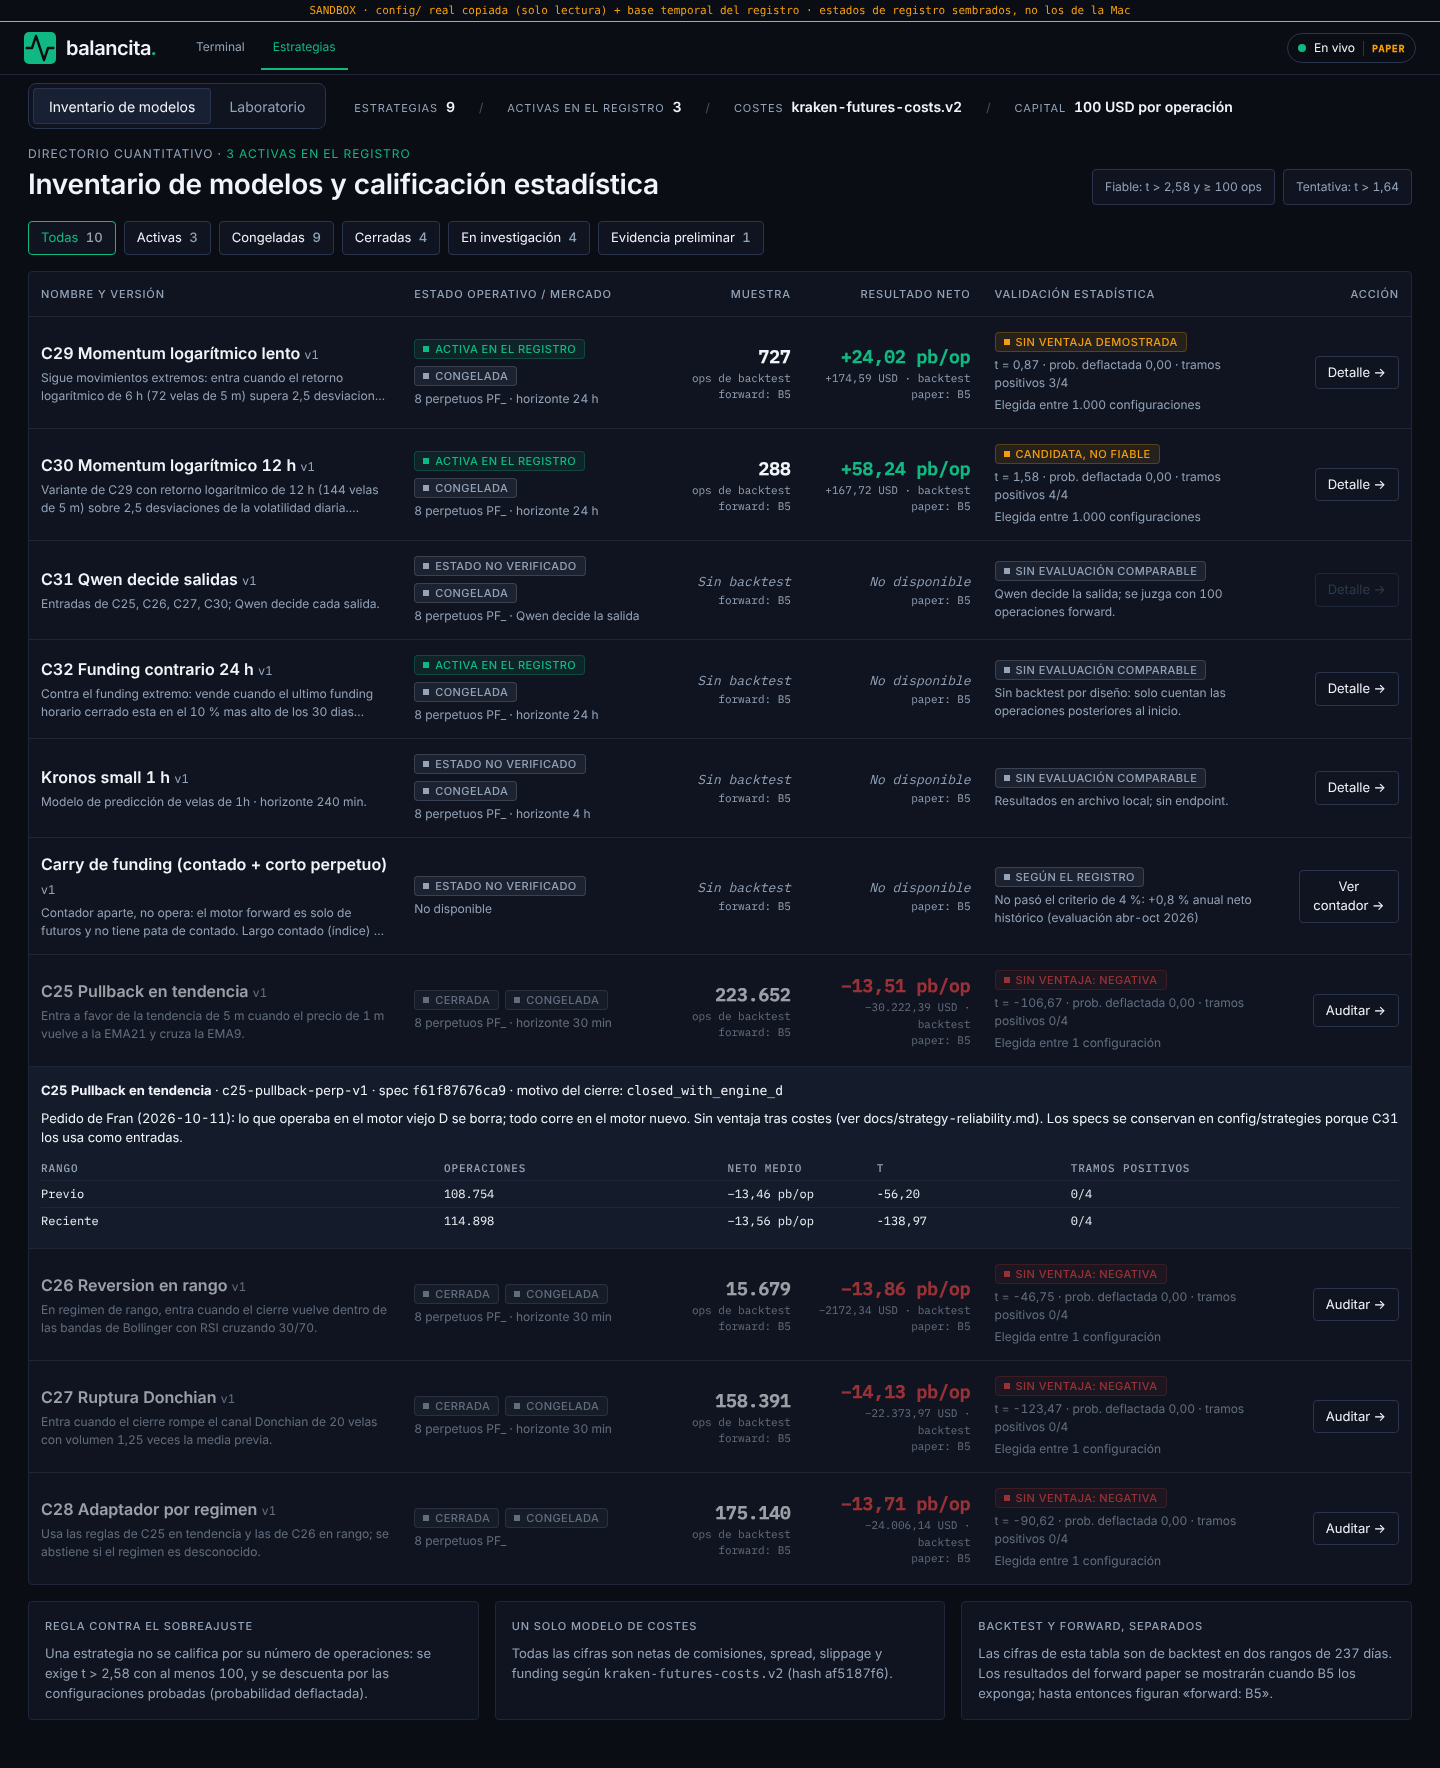
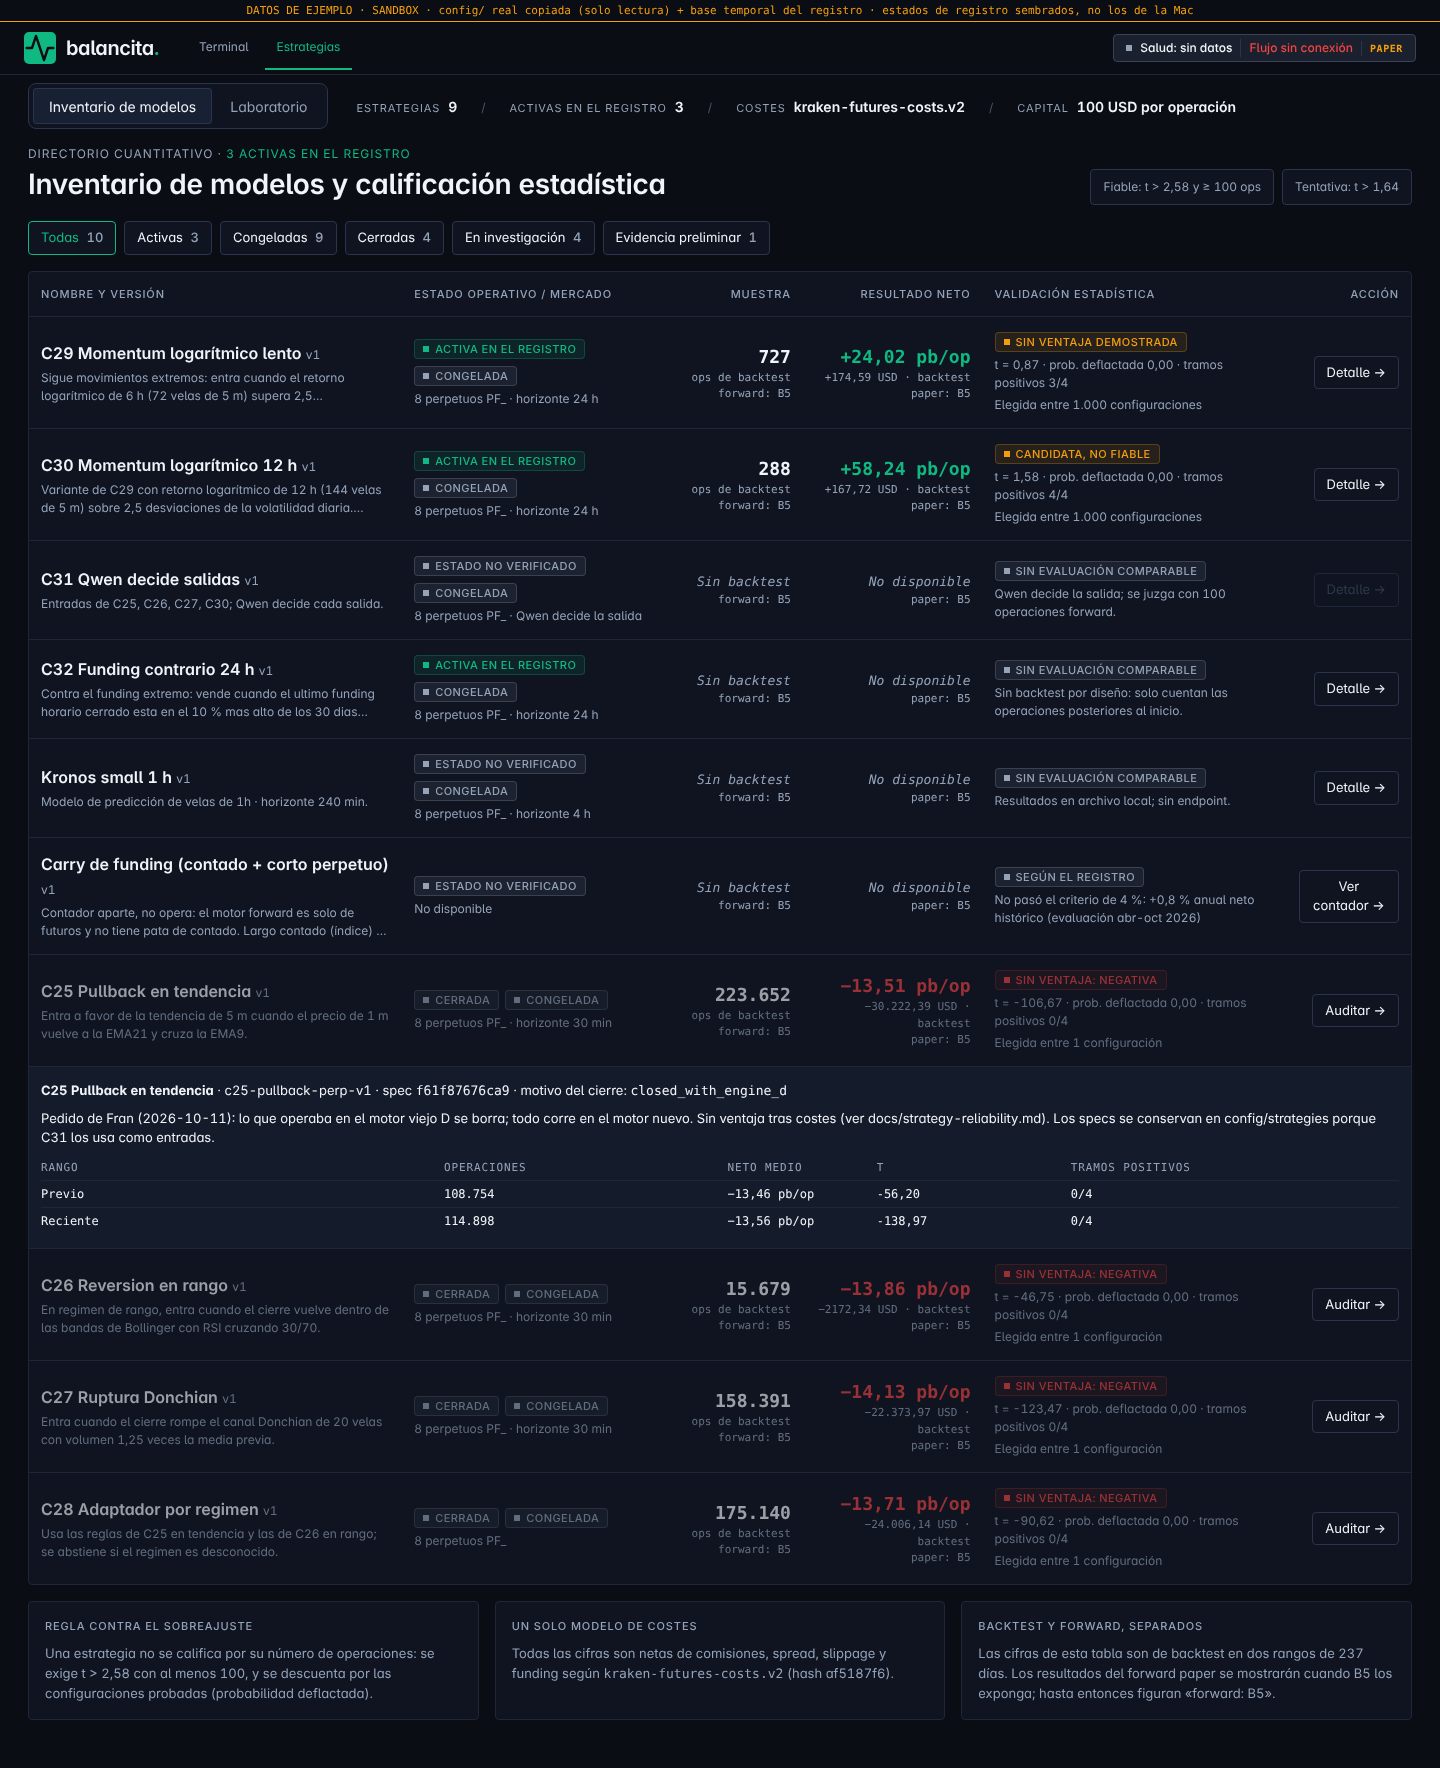
Inventario: pruebas de navegación y de integración tras rebasar sobre main, capturas con rótulo DATOS DE EJEMPLO

diff --git a/e2e/estrategias-inventario.pw.ts b/e2e/estrategias-inventario.pw.ts
@@ -22,7 +22,7 @@ const REGISTRY_PORT = 8790
 const SHOTS =
   process.env.INVENTORY_SHOTS_DIR ?? 'playwright-artifacts/inventario'
 const SANDBOX_NOTE =
-  'SANDBOX · config/ real copiada (solo lectura) + base temporal del registro · estados de registro sembrados, no los de la Mac'
+  'DATOS DE EJEMPLO · SANDBOX · config/ real copiada (solo lectura) + base temporal del registro · estados de registro sembrados, no los de la Mac'
 
 let registry: ChildProcess | null = null
 let configCopy = ''
@@ -178,6 +178,13 @@ test('Estrategias opens on the inventory and every interaction answers', async (
       .locator('[data-id="kronos-small-1h-h4-v1"]')
       .getByTestId('operational-badge'),
   ).toHaveText('Estado no verificado')
+  // C31 is registered only in qwen-exit.json: a config does not prove it runs.
+  const c31 = page.locator('[data-id^="c31"]')
+  await expect(c31.getByTestId('operational-badge')).toHaveText(
+    'Estado no verificado',
+  )
+  await expect(page.getByText('Activa en paper')).toHaveCount(0)
+  await expect(page.getByText('Con evidencia de ventaja')).toHaveCount(0)
   await expect(page.getByText('Todas', { exact: false }).first()).toBeVisible()
   await shot(page, '1-inventario')
 
@@ -224,4 +231,43 @@ test('Estrategias opens on the inventory and every interaction answers', async (
     (entry) => entry.url.startsWith('/api-strategies/') && entry.status >= 500,
   )
   expect(failed, JSON.stringify(failed, null, 2)).toEqual([])
+})
+
+test('navigation: Terminal <-> Estrategias <-> inventory <-> detail, no new tabs', async ({
+  page,
+}) => {
+  await page.route('**/api-live/**', (route) =>
+    route.fulfill({ status: 503, json: {} }),
+  )
+  // The Terminal side of the round trip (with its own navigation) is covered
+  // against the real gateway in integracion-gateway.pw.ts.
+  await page.goto('/estrategias')
+  await expect(
+    page.getByRole('heading', {
+      name: 'Inventario de modelos y calificación estadística',
+    }),
+  ).toBeVisible()
+  await expect(page.getByTestId('inventory-row')).toHaveCount(10)
+  // No new tab: the two views of Estrategias are the only ones.
+  await expect(page.getByRole('tab')).toHaveText([
+    'Inventario de modelos',
+    'Laboratorio',
+  ])
+  // Detail of C29 -> laboratory -> back to the inventory.
+  await page.getByRole('button', { name: /Detalle de C29/ }).click()
+  await expect(page.getByRole('tab', { name: 'Laboratorio' })).toHaveAttribute(
+    'aria-selected',
+    'true',
+  )
+  await expect(
+    page.getByRole('heading', { name: /^C29/ }).first(),
+  ).toBeVisible()
+  await page.getByRole('tab', { name: 'Inventario de modelos' }).click()
+  await expect(page.getByTestId('inventory-row')).toHaveCount(10)
+  // Estrategias -> Terminal -> back: opens on the inventory again.
+  await page.getByRole('link', { name: 'Terminal', exact: true }).click()
+  await expect(page).toHaveURL(/\/terminal$/)
+  await page.goBack()
+  await expect(page).toHaveURL(/\/estrategias$/)
+  await expect(page.getByTestId('inventory-row')).toHaveCount(10)
 })

diff --git a/e2e/integracion-gateway.pw.ts b/e2e/integracion-gateway.pw.ts
@@ -206,7 +206,24 @@ test('Terminal on the real gateway: every interaction answers without 404', asyn
   // Terminal <-> Estrategias (registry S is up in this run).
   await page.getByRole('link', { name: 'Estrategias' }).click()
   await expect(page).toHaveURL(/estrategias/)
+  // Estrategias opens on the inventory (read from the real registry S).
+  await expect(
+    page.getByRole('heading', {
+      name: 'Inventario de modelos y calificación estadística',
+    }),
+  ).toBeVisible()
+  // inventory -> laboratory -> inventory -> detail of a strategy -> Terminal.
+  await page.getByRole('tab', { name: 'Laboratorio' }).click()
   await expect(page.getByText('Registro de estrategias ·')).toBeVisible()
+  await page.getByRole('tab', { name: 'Inventario de modelos' }).click()
+  await page
+    .getByRole('button', { name: /Detalle de/ })
+    .first()
+    .click()
+  await expect(page.getByRole('tab', { name: 'Laboratorio' })).toHaveAttribute(
+    'aria-selected',
+    'true',
+  )
   await page.getByRole('link', { name: 'Terminal', exact: true }).click()
   await expect(page.getByTestId('activity-panel')).toBeVisible()
 
@@ -235,6 +252,7 @@ test('Estrategias on the real registry S: list, detail, period, new-strategy mod
   const before = await count()
 
   await page.goto('/estrategias')
+  await page.getByRole('tab', { name: 'Laboratorio' }).click()
   await expect(page.getByText('Registro de estrategias ·')).toBeVisible()
   await expect(
     page.getByText('Registro de estrategias no disponible'),
@@ -298,6 +316,10 @@ test('Estrategias with the registry stopped: honest state, no Carry spam', async
   const log = recordApi(page)
 
   await page.goto('/estrategias')
+  // The inventory (default view) and the laboratory both say it.
+  await expect(page.getByText('No se pudo leer el inventario')).toBeVisible()
+  await expect(page.getByText(/servicio sin iniciar/).first()).toBeVisible()
+  await page.getByRole('tab', { name: 'Laboratorio' }).click()
   await expect(
     page
       .getByText('Registro de estrategias no disponible: servicio sin iniciar')

diff --git a/src/features/strategy-lab/presentation/StrategyLab.test.tsx b/src/features/strategy-lab/presentation/StrategyLab.test.tsx
@@ -513,6 +513,7 @@ describe('StrategyLab without the registry', () => {
     const fetched = vi.spyOn(globalThis, 'fetch')
     render(
       <StrategyLab
+        initialView="lab"
         loadCandles={() => Promise.resolve(market)}
         connect={() => Promise.reject(new Error('sin respuesta (estado 502).'))}
         loadQwen={() => Promise.resolve(null as never)}
@@ -533,6 +534,7 @@ describe('StrategyLab without the registry', () => {
   it('draws no invented candles when the Terminal does not answer', async () => {
     render(
       <StrategyLab
+        initialView="lab"
         loadCandles={() => Promise.reject(new Error('Terminal caído.'))}
         connect={() => Promise.reject(new Error('sin respuesta.'))}
         loadQwen={() => Promise.resolve(null as never)}

diff --git a/docs/mission-control/p2-estrategias-inventario/LEEME.md b/docs/mission-control/p2-estrategias-inventario/LEEME.md
@@ -1,0 +1,21 @@
+# Estrategias: inventario (capturas)
+
+Capturas de la app React a 1440x900 (Playwright `desktop-1440x900`), generadas por
+`e2e/estrategias-inventario.pw.ts` contra el registro S real (proceso Python) con una
+base temporal y una copia de solo lectura de `config/`. Llevan el rótulo
+«DATOS DE EJEMPLO · SANDBOX»: los estados de registro están sembrados, no son los de la Mac.
+Ninguna base real, proceso de captura, estrategia ni WebSocket se tocó.
+
+- `1-inventario.png`: inventario de modelos (vista por defecto de Estrategias).
+- `2-auditoria-cerrada.png`: auditoría de una estrategia cerrada.
+- `3-laboratorio-c29.png`: «Detalle» abre el Laboratorio sobre C29.
+- `comparacion-stitch-vs-react.png`: Stitch v5 (izquierda) y React (derecha).
+
+## Diferencias con Stitch que quedan
+- Stitch muestra PnL neto paper, muestra forward y P&L por estrategia: esos datos son B5
+  y hoy figuran «forward: B5» / «No disponible» (no se inventan).
+- Stitch dice «Validada», «Alfas desplegados en paper»: la app usa «Activa en el registro»
+  (el registro no prueba que el proceso corra) y solo «Evidencia preliminar» para candidate_edge o mejor.
+- Chips de AUM, Sharpe, fricción y modo L2 de Stitch: sin fuente verificable, no se muestran.
+- Botón «Ver Matriz Comparativa»: entra al apilar la vista de comparación (#158/#159).
+- La app agrega filas de C31, Kronos y Carry (estado no verificado) y las cerradas, que Stitch no muestra.
